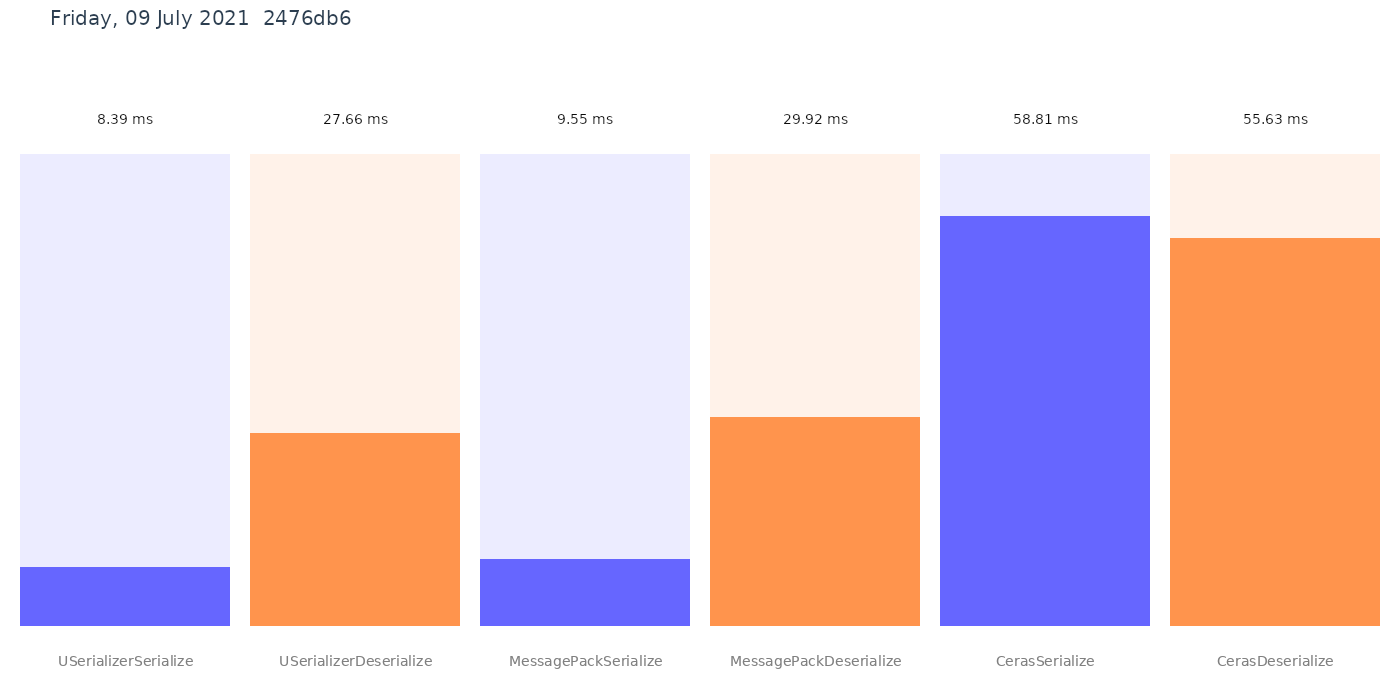
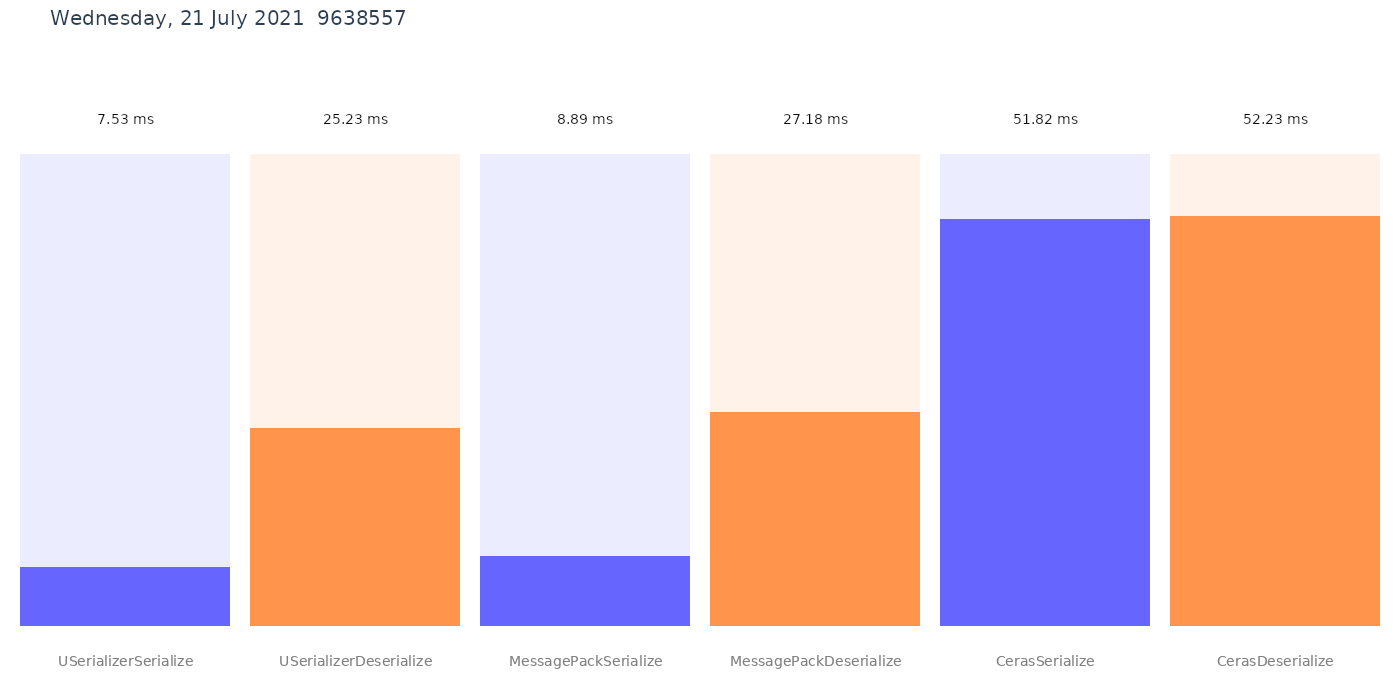
deploy: 963855729260a4d9c40c4a50b164557956bb37be

diff --git a/performance.md b/performance.md
@@ -1,10 +1,10 @@
 ``` ini
 
 BenchmarkDotNet=v0.12.1, OS=ubuntu 20.04
-Intel Xeon Platinum 8171M CPU 2.60GHz, 1 CPU, 2 logical and 2 physical cores
-.NET Core SDK=5.0.301
-  [Host]   : .NET Core 5.0.7 (CoreCLR 5.0.721.25508, CoreFX 5.0.721.25508), X64 RyuJIT
-  ShortRun : .NET Core 5.0.7 (CoreCLR 5.0.721.25508, CoreFX 5.0.721.25508), X64 RyuJIT
+Intel Xeon CPU E5-2673 v3 2.40GHz, 1 CPU, 2 logical and 2 physical cores
+.NET Core SDK=5.0.302
+  [Host]   : .NET Core 5.0.8 (CoreCLR 5.0.821.31504, CoreFX 5.0.821.31504), X64 RyuJIT
+  ShortRun : .NET Core 5.0.8 (CoreCLR 5.0.821.31504, CoreFX 5.0.821.31504), X64 RyuJIT
 
 Job=ShortRun  IterationCount=3  LaunchCount=1  
 WarmupCount=3  
@@ -12,9 +12,9 @@ WarmupCount=3
 ```
 |                 Method |      Mean |     Error |    StdDev |
 |----------------------- |----------:|----------:|----------:|
-|   USerializerSerialize |  8.387 ms | 0.5029 ms | 0.0276 ms |
-| USerializerDeserialize | 27.658 ms | 2.8502 ms | 0.1562 ms |
-|   MessagePackSerialize |  9.552 ms | 0.1173 ms | 0.0064 ms |
-| MessagePackDeserialize | 29.916 ms | 7.4578 ms | 0.4088 ms |
-|         CerasSerialize | 58.814 ms | 5.1625 ms | 0.2830 ms |
-|       CerasDeserialize | 55.627 ms | 3.4787 ms | 0.1907 ms |
+|   USerializerSerialize |  7.533 ms |  1.406 ms | 0.0771 ms |
+| USerializerDeserialize | 25.232 ms | 11.274 ms | 0.6180 ms |
+|   MessagePackSerialize |  8.894 ms |  2.916 ms | 0.1598 ms |
+| MessagePackDeserialize | 27.181 ms |  8.238 ms | 0.4515 ms |
+|         CerasSerialize | 51.822 ms | 20.975 ms | 1.1497 ms |
+|       CerasDeserialize | 52.231 ms |  7.643 ms | 0.4190 ms |
